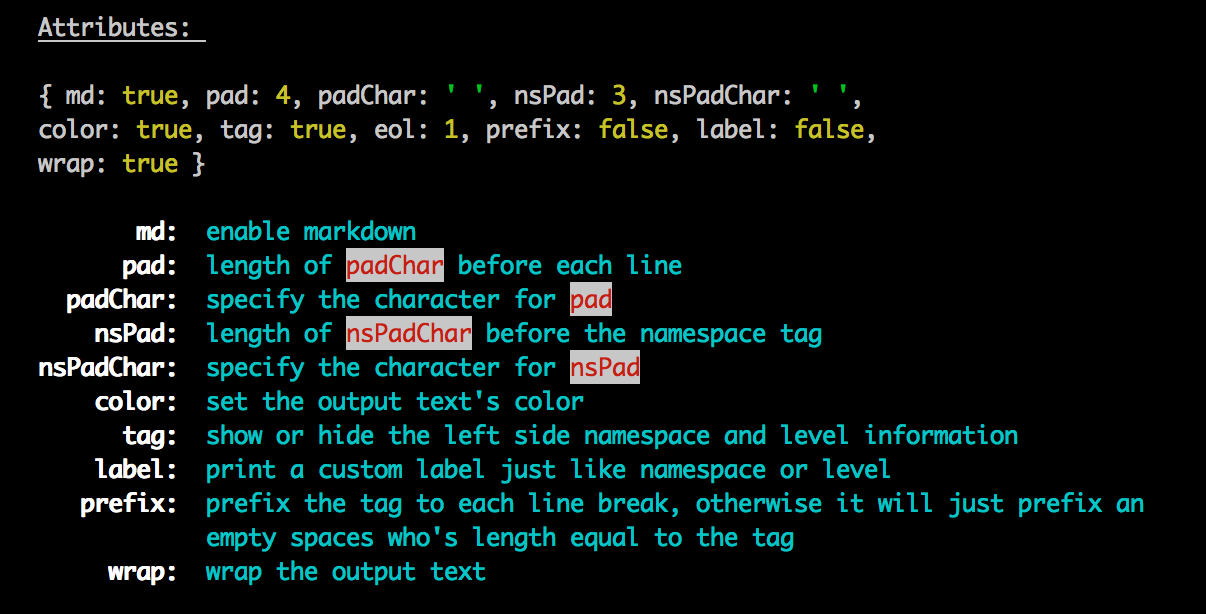
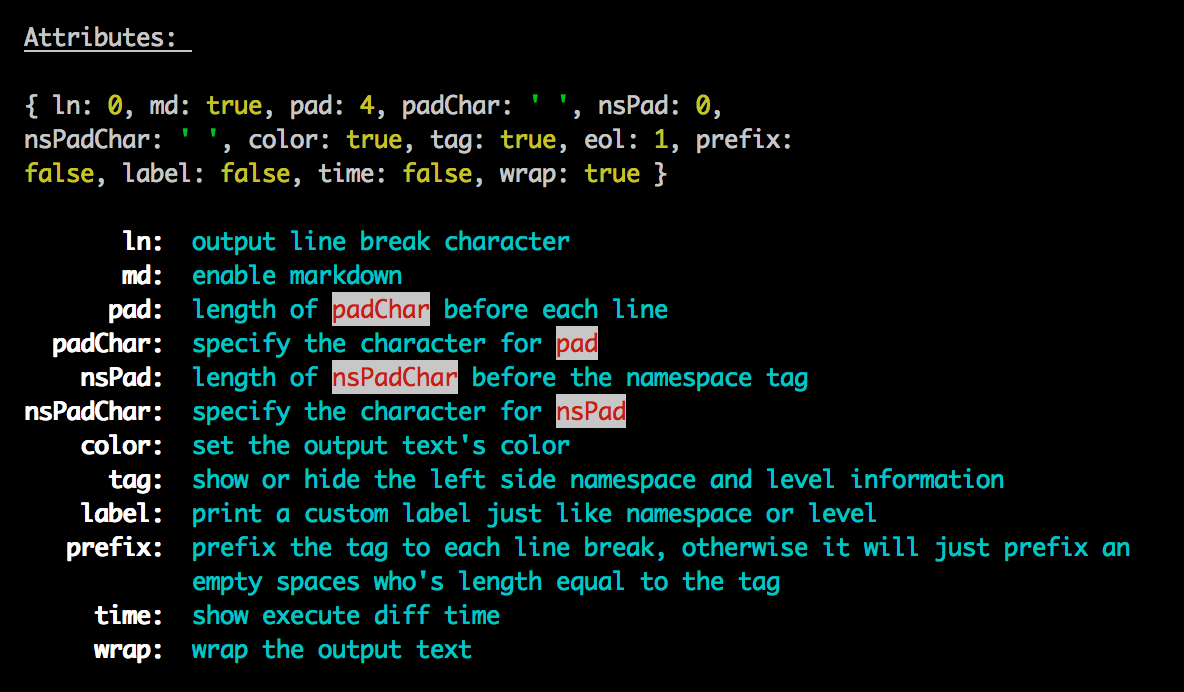
强制第一次输出 time 时一定是 0ms，另外更新了文档

Changed region(s): [[0.0, 0.3404, 0.9688, 0.9593], [0.0, 0.1238, 0.7188, 0.2785], [0.0, 0.0309, 0.1562, 0.0928]]

diff --git a/examples/namespace.js b/examples/namespace.js
@@ -12,20 +12,13 @@ var ylog = require('../'),
 ylog.attributes.pad = 4;
 
 
-var ns1 = ylog('ns_1');
-var ns2 = ylog('ns_2');
-var ns3 = ylog('ns_3');
-var ns4 = ylog('ns_4');
-
 function getDoc(fn) {
-  return (fn.toString().replace(/^function[\s\S]*?\/\*.*|\*\/[\s\S]*$/g, ''));
+  return (fn.toString().replace(/^function[\s\S]*?\{.*|\}[\s\S]*$/g, ''));
 }
 
 
 ylog.ln.ln();
-
-var src = getDoc(function() {
-  /*
+function ns() {
   var ns1 = ylog('ns_1');
   var ns2 = ylog('ns_2');
   var ns3 = ylog('ns_3');
@@ -35,22 +28,29 @@ var src = getDoc(function() {
   ns2.write('error');
   ns3.error('info');
   ns4.title('title');
-  */
-});
+}
+var src = getDoc(ns);
 
 ylog.write('Your &examples/namespace.js& file:');
 
 ylog.color('gray').write(src);
 
 ylog.write('Using &YLOG="ns*,-ns_3" node examples/namespace.js& to get the output:').ln.ln();
+ns();
+ylog.ln.ln();
 
 
-ns1.ok('ok');
-ns2.write('error');
-ns3.error('info');
-ns4.title('title');
-
-
+function magic() {
+  ylog.title('watch the magic:');
+  ylog.ln.subtitle('use %s like grammar:', 'markdown'); // "ln" means output an empty line
+  ylog.log('the !word! will become yellow');
+  ylog.no.md.log('but this !word! will not').ln(); // "no.md" means no markdown
+}
+ylog.write('&src:&').ln();
+src = getDoc(magic);
+console.log(ylog.chalk.gray(src));
+ylog.write('&output:&').ln();
+magic();
 ylog.ln.ln();
 
 

diff --git a/src/core.js b/src/core.js
@@ -246,7 +246,7 @@ function getFnResult(fn, args, ctx) {
 }
 
 var lastEOL = true; // 记录是否需要输出换行符（第一次输出不需要换行）
-var lastTime = Date.now();
+var lastTime;
 
 /**
  * 函数形式的链式调用会执行此函数
@@ -404,7 +404,7 @@ function call() {
 
 
 function getOutputTime(currTime) {
-  var diff = currTime - lastTime;
+  var diff = lastTime ? currTime - lastTime : 0;
   var levels = ylogProto.timeLevelColors;
   var color;
   for (var i = 0; i < levels.length; i++) {

diff --git a/README.md b/README.md
@@ -10,7 +10,11 @@
 
 Why another logger? That's a good question!
 
-__ylog 的特点__
+__Example:__
+
+![styles](./res/start.png)
+
+__ylog 的特点:__
 
   - 支持 [npmlog](https://github.com/npm/npmlog#loglevelprefix-message-) 的 level 级别
   - 支持 [debug][debug] 的多模块控制
@@ -25,52 +29,25 @@ __ylog 的特点__
 
 ## Usage
 
-### 使用 Levels
+### 使用 levels
 
-
-#### 默认支持的 levels
 ![styles](./res/levels.png)
-<!--
-```js
-ylog.silly("silly") 
-// => [S] silly
 
-ylog.verbose("verbose") 
-// => [V] verbose
 
-ylog.debug("debug") 
-// => [D] debug
+### 设置 level 显示级别
 
-ylog.info("info") 
-//=> ℹ  info
-
-ylog.warn("warn") 
-// => !  warn
-
-ylog.ok("ok")
-// => ✓  ok
-
-ylog.error("error") 
-// => ✗  error
-
-ylog.fatal("fatal") 
-// => ✗✗✗ fatal
-
-ylog.silent("silent") 
-// => (nothing)
-``` 
--->
-
-### 设置 level 显示级别：`ylog.setLevel(levels, mode)`
+`ylog.setLevel(levels, mode)`
 
 `levels` 可以是单个 level，也可以是一个 level 数组
 `mode` 可以是 `'only'` 或 `'weight'`
 
-  - `only mode`: 表示只输出 levels 中指定的级别，其它级别不输出
-  - `weight mode`: 表示只输出权重__大于等于__所有指定 levels 中的最低权重的级别
+  - `only` mode: 表示只输出 levels 中指定的级别，其它级别不输出
+  - `weight` mode: 表示只输出权重__大于等于__所有指定 levels 中的最低权重的级别（默认是此值）
 
    
-### 自定义新的 level，或修改现有 level： `ylog.levelFlag(name, weight, tag)`
+### 自定义新的 level，或修改现有 level
+ 
+`ylog.levelFlag(name, weight, tag)`
 
 ```js
 
@@ -87,25 +64,16 @@ c.levelFlag('ok2', 5500, chalk.bold.green('✓'));
 
 很简单，像使用 [debug][debug] 一样，只是环境变量名从 `DEBUG` 变成了 `YLOG`
 
-```js
-var ns1 = ylog('ns_1');
-var ns2 = ylog('ns_2');
-var ns3 = ylog('ns_3');
-var ns4 = ylog('ns_4');
+![styles](./res/ns.png)
 
-ns1.ok('ok');
-ns2.write('write');
-ns3.error('error');
-ns4.title('title');
+### 使用丰富的样式
 
-// 然后如果使用 YLOG="ns*,-ns_3" node path/to/file.js 运行上面脚本，就只会得到第 1, 2, 4 条日志
-```
-
-### 使用类 grunt.log 丰富的样式
 ![styles](./res/styles.png)
 
 
-### 自定义你自己的样式 ylog.styleFlag(name, fn)
+### 自定义你自己的样式 
+
+`ylog.styleFlag(name, fn)`
 
 `name`： 是样式名称
 
@@ -125,12 +93,11 @@ ylog.rightLn('are you ok');
 
 ```
 
-
 ### 使用类 markdown 语法
 ![styles](./res/md.png)
 
 
-### 配置（或者叫 attribute）
+### 配置（或者叫 attributes）
 ![styles](./res/attrs.png)
 
 #### 局部配置
